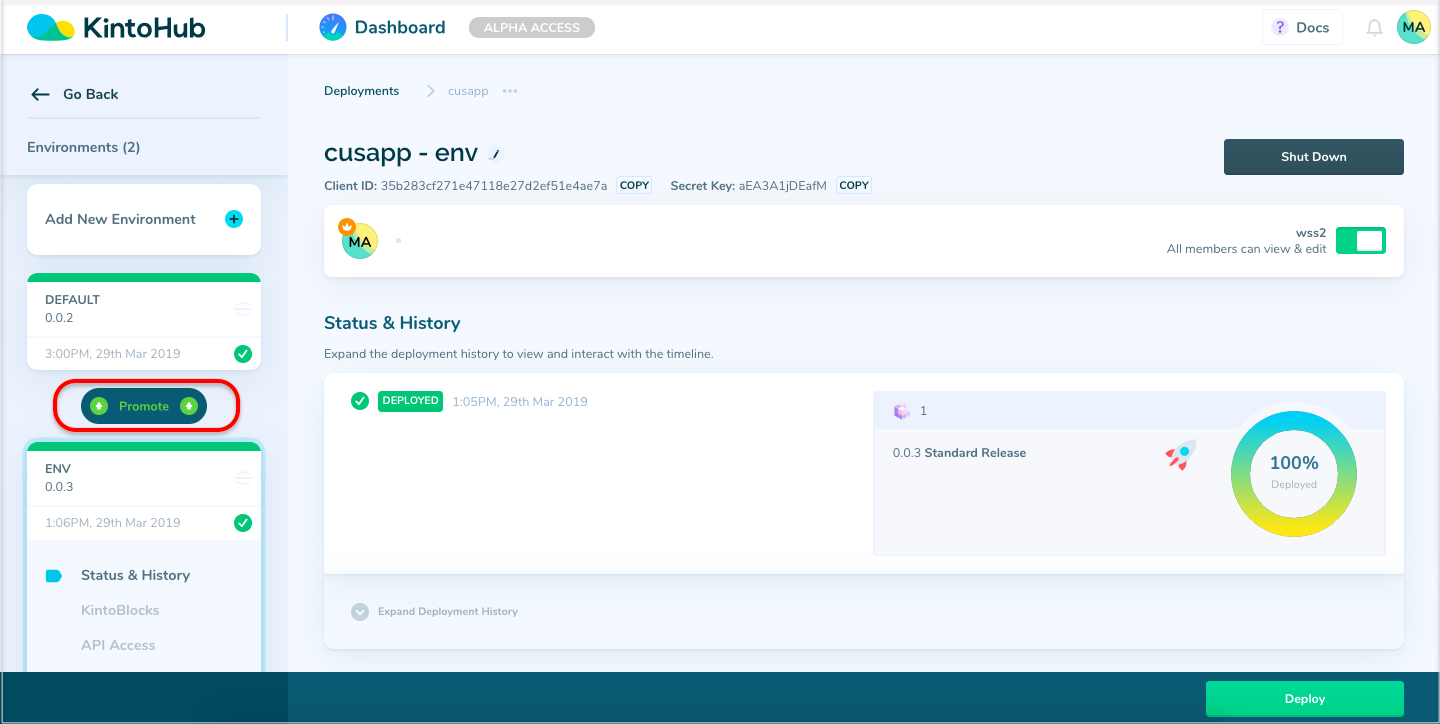
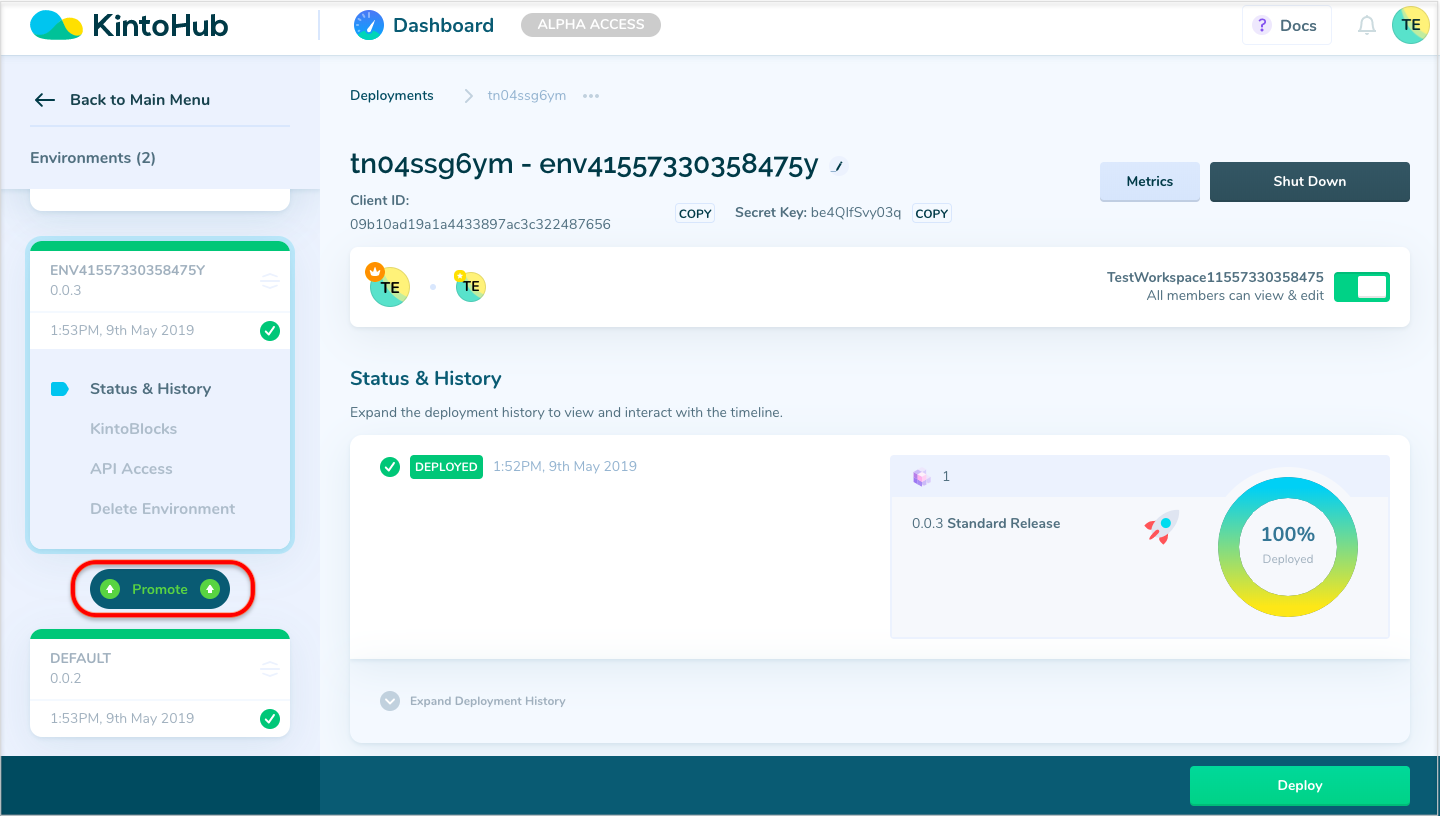
Doc update 0.4.0 (#114)
* Added Images for GitHub Auth app

* Added content for GitHub Auth app

* Delete website-options.png

* Delete promote-env.png

* Delete edit-icon-deployments.png

* Delete add-new-env.png

* Added Images new Images for Deployments

* Removed "View Logs"

* Added content for "Metrics"

* Updated content for "Static" website

* Added "View Logs" content

* Added "View Logs" subsection

* Update environments.md

* Update environments.md

diff --git a/docs/link-repo-resources.md b/docs/link-repo-resources.md
@@ -21,7 +21,68 @@ To link GitHub, follow the steps mentioned below:
 
 4. Specify `GitHub` credentials and login successfully.
 
-5. Click on **Authorize KintoHub** button to grant permission for accessing the repo resource.
+5. Click on the **Install** button to confirm the installation of **KintoHub's GitHub Auth** app.
+
+    ![Screenshot](/docs/assets/GitHub_app.png)
+
+6. Choose your repository.
+
+    ![Screenshot](/docs/assets/select_repo_options.png)
+
+>Note: There are two options say access to all repositories or for specific repositories.
+
+7. Click on the **Install** button to complete the installation setup.
+
+Once the **KintoHub's GitHub Auth** app is installed and linked to your GitHub account, there is no need to install it again for linking with other **Workspaces**. The only required step is to configure and associate the **GitHub Auth** app.
+
+To configure the GitHub Auth app, follow the steps mentioned below:
+
+1. Navigate to **Workspace Manage** page.
+
+2. Click on the **Link GitHub Account** button.
+
+3. Click on the **Configure** button.
+
+    ![Screenshot](/docs/assets/GitHub_Configure.png)
+
+4. Choose your repository.
+
+    ![Screenshot](/docs/assets/GitHub_Configure_setting.png)
+
+5. Click on the **Save** button to save the configured settings.
+
+>Note: **KintoHub's GitHub Auth** app can be uninstalled from your GitHub account at any point. To do so, just click on the **Uninstall** button and remove the GitHub Auth app.
+
+![Screenshot](/docs/assets/Uninstall_GitHub_app.png)
+
+
+## Linking to GitHub organizations
+
+GitHub organizations are shared accounts where groups of users can collaborate across many projects at once. GitHub organizations can be linked with Workspaces in KintoHub.
+
+>Note: By default, **KintoHub** has permissions to access all organizations of the GitHub user. If the user has multiple organizations, and if KintoHub needs to access only specific organizations, be sure to grant permissions accordingly in GitHub.
+
+To link GitHub organization, follow the steps mentioned below:
+
+1. Select the workspace from the **Workspace** field displayed in the sidebar.
+
+2. Click on the **Edit** icon and get redirected to the **Workspace Manage** page.
+
+3. Move on to the **Repo Resource** section and click on the **Link GitHub Account** button.
+
+4. Specify `GitHub` credentials and login successfully.
+
+5. Click on the **Install** button to confirm the installation of **KintoHub's GitHub Auth** app.
+
+6. Select the **organizations** to be linked.
+
+    ![Screenshot](/docs/assets/choose_github_org.png)
+
+7. Choose your repository.
+
+8. Click on the **Install** button to complete the installation setup.
+
+After establishing a link between GitHub and Workspace, if a new organization is added to the GitHub account, the newly added item may not appear in the organization list in Workspace. In such an event, contact KintoHub Support via [Slack](https://kintohub.slack.com/) and after confirmation from Support follow the steps mentioned above to gain access to all currently available organizations in GitHub account.
 
 
 ## Linking to Bitbucket
@@ -37,32 +98,3 @@ To link Bitbucket, follow the steps mentioned below:
 4. Specify `Bitbucket` login will be prompted, login in successfully.
 
 5. Click on the **Grant access** button.
-
-
-## Linking to GitHub organizations
-
-GitHub organizations are shared accounts where groups of users can collaborate across many projects at once. GitHub organizations can be linked with Workspaces in KintoHub.
-
->Note: By default, **KintoHub** has permissions to access all organizations of the GitHub user. If the user has multiple organizations, and if KintoHub needs to access only specific organizations, be sure to grant permissions accordingly in GitHub.
-
-To grant access to a GitHub organization, follow the steps mentioned below:
-
-1. Navigate to your **GitHub** personal account settings.
-
-   ![Screenshot](/docs/assets/GitHub_Settings.png)
-
-2. Click on **Applications**.
-
-3. Switch to **Authorized OAuth Apps** tab.
-
-   ![Screenshot](/docs/assets/Auth_Org.png)
-
-4. Select the **KintoHub** application.
-
-   ![Screenshot](/docs/assets/Grant_Org_Access.png)
-
-5. Click on the **Grant** button displayed for the concerned organization.
-
-As soon as the **Grant** button is clicked, the user will be able to link the organizations with the Workspace.
-
-After establishing a link between GitHub and Workspace, if a new organization is added to the GitHub account, the newly added item may not appear in the organization list in Workspace. In such an event, contact KintoHub Support via [Slack](https://kintohub.slack.com/) and after confirmation from Support follow the steps mentioned above to gain access to all currently available organizations in GitHub account.

diff --git a/docs/environments.md b/docs/environments.md
@@ -16,6 +16,8 @@ To create an Environment, follow the steps mentioned below:
     
 3. Enter your `Environment` name.
 
+    ![Screenshot](/docs/assets/env-add-popup.png)
+
 4. Click on **Add New Environment** button to create an environment.
 
 
@@ -54,8 +56,37 @@ To deploy an environment, follow the steps mentioned below:
 
 5. Click on the **Deploy** button to deploy the environment.
 
-An environment can be redeployed even when there are no changes made to it. To redeploy an environment, follow the steps mentioned below:
+
+## Metrics
+
+We have integrated Grafana metrics with your environment. The dashboard view of the metrics helps you to filter the statistics based on your workspace or environment.
+
+These metrics are helpful to perform health checks on the environment and to troubleshoot issues.
+
+To view metrics for an environment, follow the steps mentioned below:
 
 1. Open a **Deployment**.
 
-2. Click on the **Deploy** button.
+2. Click on the **Metrics** button displayed on the top right of the **Deployment Manage** page.
+
+    ![Screenshot](/docs/assets/metrics-btn.png)
+
+3. Enter the `Username` and `Password` of your KintoHub account in **Grafana** Login page.
+
+    ![Screenshot](/docs/assets/grafana_login.png)
+
+After successful login, you will be able to view the metrics of an environment. The metrics provide real-time updates for an environment and displays the following details:
+
+- CPU usage.
+
+- Memory Usage.
+
+- Average Recieve Bytes.
+
+- Average Transmit Bytes.
+
+- Uptime.
+
+- Number of Instances
+
+![Screenshot](/docs/assets/grafana-metrics.png)

diff --git a/docs/deployment-status-history.md b/docs/deployment-status-history.md
@@ -29,28 +29,3 @@ There are four types of statuses displayed for environments:
 - **Shutdown**: Environments that are no longer running are indicated with this status.
 
 By clicking on Expand Deployment History, you can gain access to view all the deployments made previously.
-
-
-## View Logs
-
-The log files maintain a record of errors, informational events, and warnings that have occurred during the deployment process. Log files maintain track for each individual KintoBlock that is part of a deployment. 
-
-To view the logs, follow the steps mentioned below:
-
-1. Open a **Deployment**.
-
-2. Click on **Expand Deployment History** displayed in the **Status & History** section.
-
-3. Click on **View Logs** button displayed for a deployment made.
-
-4. Get redirected to the **Logs** page to view the logs.
-
-5. Click on the **KintoBlocks** field to get KintoBlocks dropdown.
-
-6. Switch between the KintoBlocks to view logs of the concerned KintoBlock.
-
-7. There is also an option to filter the logs using the filter field.
-
-   ![Screenshot](/docs/assets/env-logs.png)
-
-    >Note: Enable the **Keep Console Pinned to the Bottom** toggle. This will cause the recent logs to appear on the bottom of the screen at all times. Hence, the user need not scroll the logs from time to time to get a preview of the most recent activity.

diff --git a/docs/view-logs.md b/docs/view-logs.md
@@ -1,0 +1,26 @@
+---
+title: View Logs
+---
+
+
+The log files maintain a record of errors, informational events, and warnings that have occurred during the deployment process. Log files maintain track for each individual KintoBlock that is part of a deployment. 
+
+To view the logs, follow the steps mentioned below:
+
+1. Open a **Deployment**.
+
+2. Click on **Expand Deployment History** displayed in the **Status & History** section.
+
+3. Click on **View Logs** button displayed for a deployment made.
+
+4. Get redirected to the **Logs** page to view the logs.
+
+5. Click on the **KintoBlocks** field to get KintoBlocks dropdown.
+
+6. Switch between the KintoBlocks to view logs of the concerned KintoBlock.
+
+7. There is also an option to filter the logs using the filter field.
+
+   ![Screenshot](/docs/assets/env-logs.png)
+
+    >Note: Enable the **Keep Console Pinned to the Bottom** toggle. This will cause the recent logs to appear on the bottom of the screen at all times. Hence, the user need not scroll the logs from time to time to get a preview of the most recent activity.

diff --git a/docs/kintoblock-introduction.md b/docs/kintoblock-introduction.md
@@ -67,7 +67,7 @@ KintoBlock that meets your needs.
 
    ![Screenshot](/docs/assets/kb-website-basic-info.png)
 
-3. Select the **website type** in the drop-down. Right now, we only support **Dynamic Web Applications**. The support for static websites will be coming up soon!
+3. Select the **website type** in the drop-down. We support both **Static Website** and **Dynamic Web Applications**. 
 
    ![Screenshot](/docs/assets/website-options.png)
 
